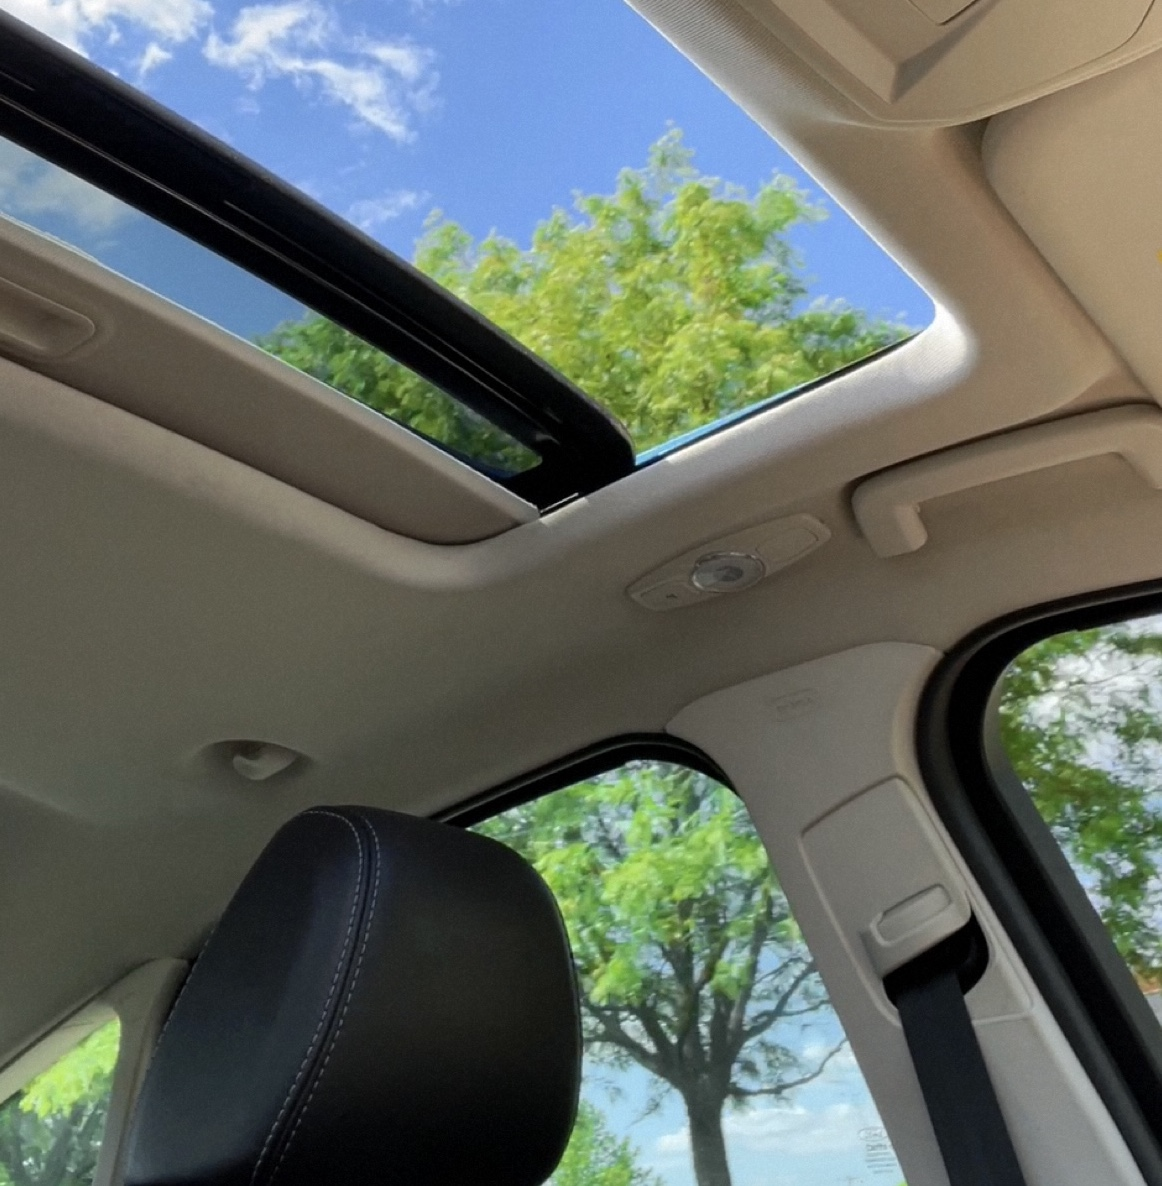
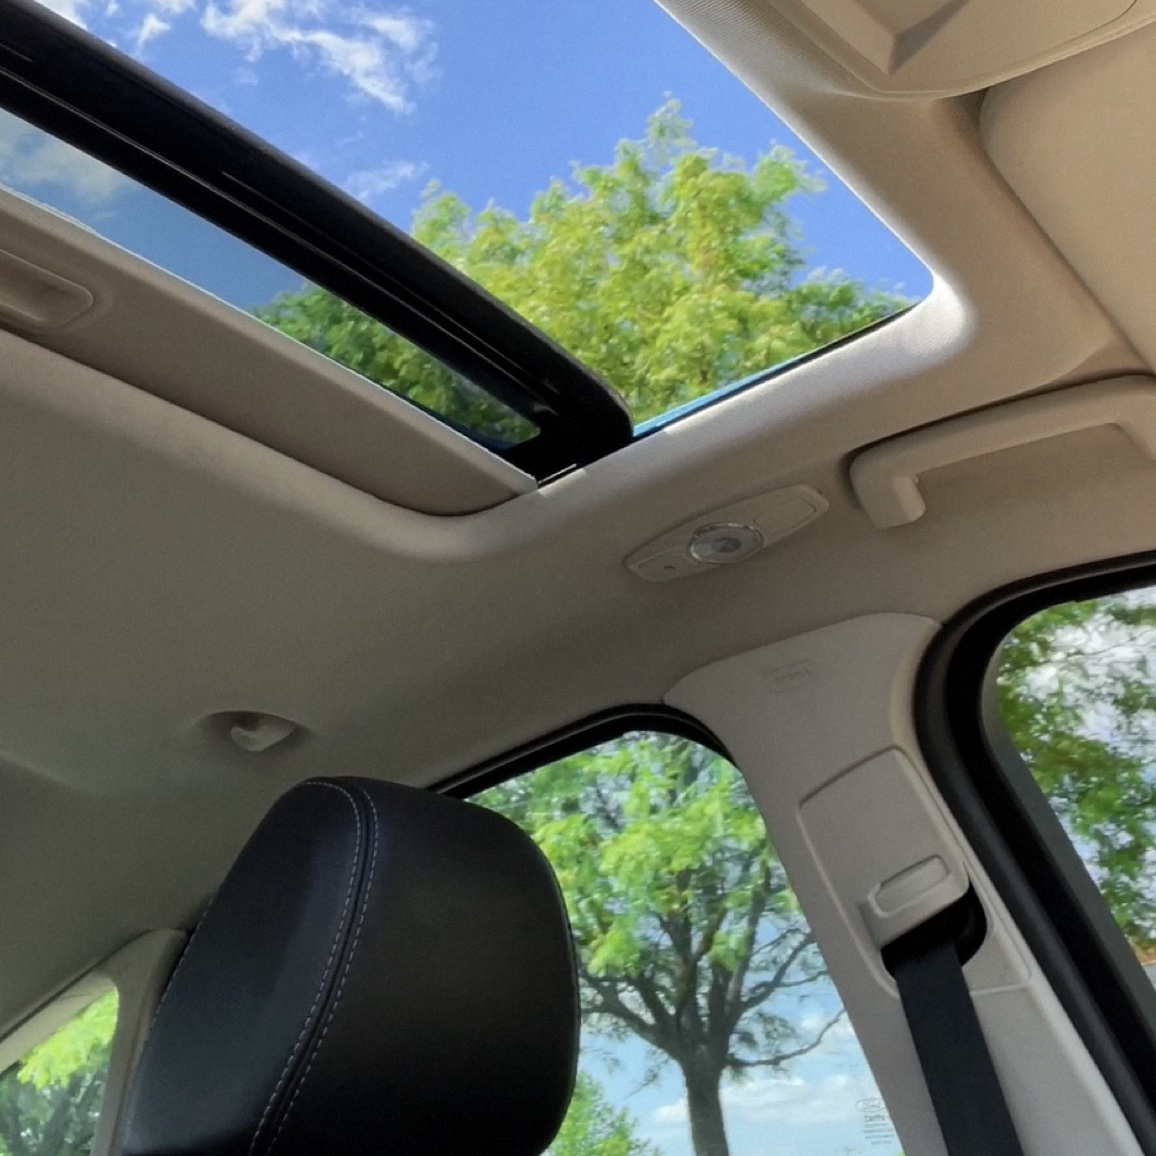
modified background image. added footer. added GitHub link to code in footer with a title attribute for when a mouse hovers over it and so that it opens in a new tab with target=_blank

diff --git a/style.css b/style.css
@@ -30,12 +30,12 @@ header {
     max-width: 100%;
     height: 100%;
     margin: 0 auto;
+    padding: 20px 60px;
 }
 
 header h1 {
     margin: 0;
-    display:inline;
-    padding: 10px 50px;
+    display: inline;
     text-align: left;
     font-size: 50px;
 }
@@ -46,14 +46,13 @@ header h1 a {
 }
 
 header h1 a:hover {
-    color: rgb(44, 44, 44);
+    color: white;
     text-decoration: none;
 }
 
 nav {
-    float:right;
-    display:inline;
-    padding: 0px 50px;
+    float: right;
+    display: inline;
 }
 
 nav li {
@@ -71,6 +70,17 @@ nav a:hover {
     color: rgb(44, 44, 44);
 }
 
+footer {
+    position: fixed;
+    float: bottom;
+    bottom: 1%;
+}
+
+footer a img {
+    height: 30px;
+    display: inline;
+}
+
 h1 {
     text-align: center;
     font-family: "Midnight Signature";
@@ -78,6 +88,7 @@ h1 {
     width: 100%;
     height: 100px;
     font-weight: 100;
+    font-size: 100px
 }
 
 h2 {

diff --git a/index.html b/index.html
@@ -26,6 +26,8 @@
                 </ul>
             </nav>
     </header>
-    
+    <footer>
+        <a href="https://github.com/teresabarker/Grandell" title="See the code behind teresabarker.com" target="_blank"><img class="footer-img" src="resources/images/github-logo-white-300x199.png"></a>
+    </footer>
 </body>
 </html>
